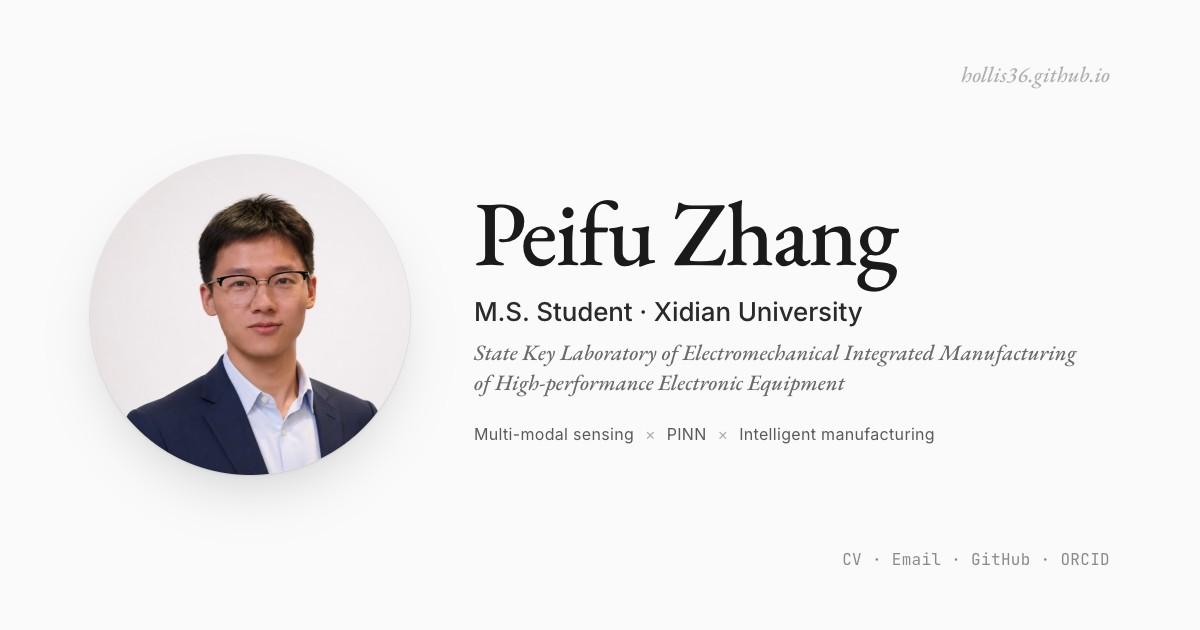
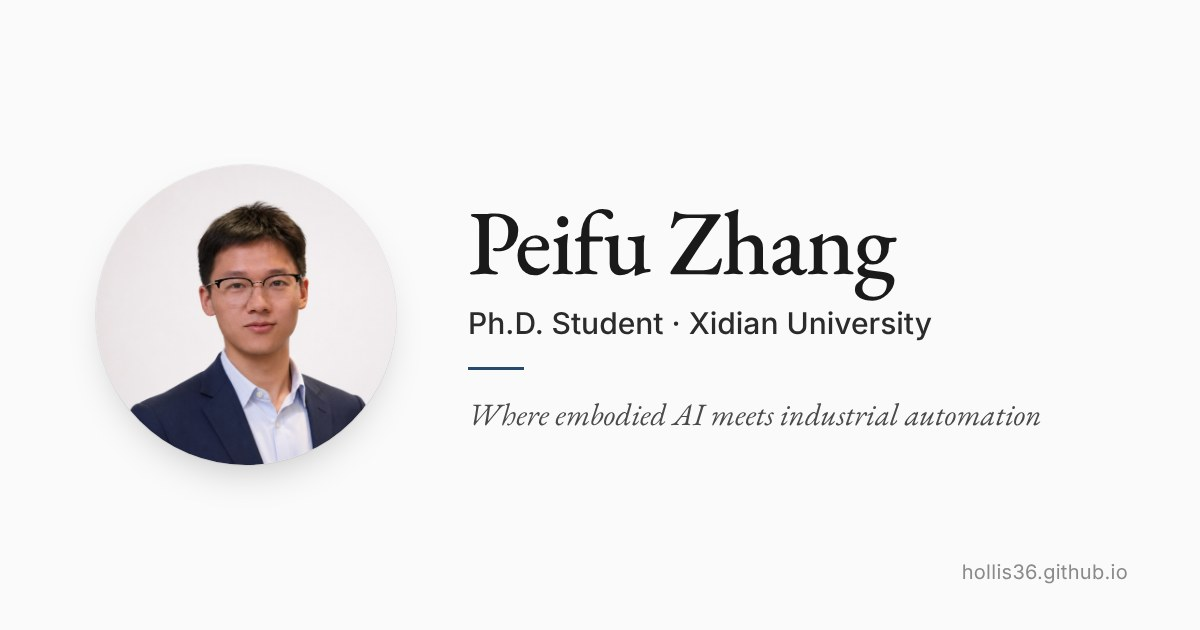
build: publish identity line, shorter bio and new preview image
Build output of academic-site identity-og.

Claude-Session: https://claude.ai/code/session_016Nzzzg47vC9Hei8kUri5ZV

diff --git a/index.html b/index.html
@@ -1,4 +1,4 @@
-<!DOCTYPE html><html lang="en"> <head><meta charset="UTF-8"><meta name="viewport" content="width=device-width, initial-scale=1.0"><meta name="color-scheme" content="light"><meta name="google-site-verification" content="UYcEzalOo01ZI3kSCW3-O5s_WN0Uq6qv6qF1ZRYlca0"><meta name="description" content="Peifu Zhang works where embodied AI meets industrial automation: verifiable LLM/VLM robot programming, industrial inspection with vision-language models, and robust multimodal perception, built to run offline on factory hardware."><meta name="author" content="Peifu Zhang"><meta name="robots" content="index, follow, max-image-preview:large"><link rel="canonical" href="https://hollis36.github.io/"><link rel="icon" type="image/svg+xml" href="/favicon.svg"><meta property="og:type" content="profile"><meta property="og:site_name" content="Peifu Zhang"><meta property="og:title" content="Peifu Zhang"><meta property="og:description" content="Peifu Zhang works where embodied AI meets industrial automation: verifiable LLM/VLM robot programming, industrial inspection with vision-language models, and robust multimodal perception, built to run offline on factory hardware."><meta property="og:url" content="https://hollis36.github.io/"><meta property="og:image" content="https://hollis36.github.io/og-image.jpg"><meta property="og:image:width" content="1200"><meta property="og:image:height" content="630"><meta property="og:image:type" content="image/jpeg"><meta property="og:image:alt" content="Peifu Zhang — Ph.D. Student in Mechanical Engineering"><meta property="og:locale" content="en_US"><meta property="profile:first_name" content="Peifu"><meta property="profile:last_name" content="Zhang"><meta name="twitter:card" content="summary_large_image"><meta name="twitter:title" content="Peifu Zhang"><meta name="twitter:description" content="Peifu Zhang works where embodied AI meets industrial automation: verifiable LLM/VLM robot programming, industrial inspection with vision-language models, and robust multimodal perception, built to run offline on factory hardware."><meta name="twitter:image" content="https://hollis36.github.io/og-image.jpg"><meta name="twitter:image:alt" content="Peifu Zhang — Ph.D. Student in Mechanical Engineering"><title>Peifu Zhang</title><script type="application/ld+json">{"@context":"https://schema.org","@type":"Person","name":"Peifu Zhang","jobTitle":"Ph.D. Student in Mechanical Engineering","affiliation":{"@type":"EducationalOrganization","name":"State Key Laboratory of Electromechanical Integrated Manufacturing of High-performance Electronic Equipment, School of Electro-Mechanical Engineering, Xidian University"},"url":"https://hollis36.github.io/","image":"https://hollis36.github.io/og-image.jpg","description":"Peifu Zhang works where embodied AI meets industrial automation: verifiable LLM/VLM robot programming, industrial inspection with vision-language models, and robust multimodal perception, built to run offline on factory hardware.","knowsAbout":["Robot Learning","Intelligent Manufacturing","Vision-Language Models","Large Language Models for Robot Programming","Industrial Visual Inspection","RGB-Infrared Perception","Multimodal Perception and Fusion","Physics-Informed Machine Learning"],"sameAs":["https://scholar.google.com/citations?user=cqbM0hEAAAAJ&hl=en","https://orcid.org/0009-0007-8422-3955","https://github.com/Hollis36"],"identifier":{"@type":"PropertyValue","propertyID":"https://orcid.org/","value":"0009-0007-8422-3955"},"award":["2026 — Third Prize, AI Innovation Track, 28th China Robot and Artificial Intelligence Competition (Shaanxi)","2026 — Second Prize (Northwest Region), AIGC Innovation Track, China Collegiate Computing Contest","2025 — Graduate Distinguished Scholarship","2025 — Second Prize, \"Huawei Cup\" China Post-Graduate Mathematical Contest in Modeling","2025 — China Western Volunteer Program, one-year volunteer teaching (2024–25), rated Excellent","2024 — Outstanding Student, Xidian University","2024 — Champion, World Robot Contest — Shaanxi Selection","2024 — Outstanding Instructor, World Robot Contest Shaanxi Selection","2023 — 1st Prize (Provincial), \"Challenge Cup\" National College Students Extracurricular Academic Science and Technology Works Competition","2023 — Silver Medal (Provincial, Red Tour Track), China College Students \"Internet+\" Innovation and Entrepreneurship Competition","2022 — Honorable Mention, Interdisciplinary Contest in Modeling (ICM)","2022 — 1st Prize (Provincial), China Undergraduate Mathematical Contest in Modeling","2022 — National Student Innovation and Entrepreneurship Training Project (funded)","2022 — MOE–Huawei \"Intelligent Base\" Future Star"]}</script><script defer data-goatcounter="https://peifuzhang.goatcounter.com/count" src="//gc.zgo.at/count.js"></script><link rel="stylesheet" href="/_astro/index.Wh-oZ_GO.css"></head> <body> <main class="container">  <section class="hero"> <div class="hero__text"> <h1 class="hero__name">Peifu Zhang</h1> <div class="hero__bio"> <p>Foundation models are moving from screens into the physical world. Vision-language-action models, LLM agents and multimodal perception promise robots that are told what to do instead of being programmed line by line, yet factories still need outputs that are correct, verifiable and able to run on the hardware they already have.</p><p>My research sits where embodied AI meets industrial automation: language models that write robot programs and check them in simulation before execution, vision-language models for industrial inspection whose post-training gains are measured rather than assumed, and RGB–thermal perception for small, hard-to-see targets. I build these as working systems that run offline on factory PCs, CPU-only laptops and robot controllers.</p> </div> <p class="hero__links"> <a class="js-email" href="#" data-e="bmMudWRlLm5haWRpeC51dHNAdWZpZXA=">Email</a> <span class="site-nav__sep">·</span><a href="https://scholar.google.com/citations?user=cqbM0hEAAAAJ&hl=en" target="_blank" rel="noopener noreferrer">Google Scholar</a> <span class="site-nav__sep">·</span><a href="https://github.com/Hollis36" target="_blank" rel="noopener noreferrer">GitHub</a> <span class="site-nav__sep">·</span><a href="https://orcid.org/0009-0007-8422-3955" target="_blank" rel="noopener noreferrer">ORCID</a> </p> </div> <div class="hero__avatar"> <img src="/show-photo.jpg" alt="Peifu Zhang" width="200" height="200" loading="eager"> </div> </section> <hr> <section class="section"> <h2 class="section-title" id="research"> <span class="section-title__bracket">[</span>Research<span class="section-title__bracket">]</span> </h2> <ol class="research-list"> <li class="research-theme" id="theme-robot-programming"> <h3 class="research-theme__title"> <span class="research-theme__num">01</span>Foundation Models for Robot Programming &amp; Inspection</h3> <p class="research-theme__desc">Turning language and vision-language models into robot programs and inspection decisions that can be verified: in simulation before a robot moves, and on held-out data before a model is deployed.</p> </li><li class="research-theme" id="theme-perception"> <h3 class="research-theme__title"> <span class="research-theme__num">02</span>Robust Multimodal Perception</h3> <p class="research-theme__desc">Perceiving small, low-contrast targets by fusing RGB and thermal imagery, and by distilling what large vision-language models know into detectors fast enough for real time.</p> </li><li class="research-theme" id="theme-manufacturing"> <h3 class="research-theme__title"> <span class="research-theme__num">03</span>Physics-Informed AI for Manufacturing</h3> <p class="research-theme__desc">Combining multi-sensor data with physical models to monitor additive manufacturing and other high-value production processes online.</p> </li> </ol> </section> <hr> <section class="section"> <h2 class="section-title" id="publications"> <span class="section-title__bracket">[</span>Publications<span class="section-title__bracket">]</span> </h2> <ul class="pub-list"> <li class="pub-item" id="pub-nanorobot-snb-2026"> <h3 class="pub-item__title"> <a href="https://doi.org/10.1016/j.snb.2026.139673" target="_blank" rel="noopener noreferrer">Deep learning enabled magnetic/rare earth hybrid nanorobots for multi-modal bioimaging and temperature sensing with surgical boundary determination</a> </h3> <p class="pub-item__authors"> <span class>Wenjing Li</span><span class="pub-item__author-mark">*</span><span>, </span><span class>Bi Lin</span><span class="pub-item__author-mark">*</span><span>, </span><span class>Bixiao Li</span><span class="pub-item__author-mark">*</span><span>, </span><span class="pub-item__author--self">Peifu Zhang</span><span class="pub-item__author-mark">*</span><span>, </span><span class>Ziyue Ju</span><span>, </span><span class>Anees A. Ansari</span><span>, </span><span class>Ruichan Lv</span><span class="pub-item__author-mark">†</span> </p> <p class="pub-item__venue"> Sensors and Actuators B: Chemical, 2026 <span class="pub-item__venue-note">Co-first author</span> </p> <div class="pub-item__links"> <button type="button" class="pub-item__toggle" data-toggle-target="abs-nanorobot-snb-2026" aria-expanded="false">[Abstract]</button>  <button type="button" class="pub-item__toggle" data-toggle-target="bib-nanorobot-snb-2026" aria-expanded="false">[BibTeX]</button> </div> <div id="abs-nanorobot-snb-2026" class="pub-item__abstract" hidden>Nanorobots, with miniature size, wireless operation, and flexible mobility, can access narrow spaces and are widely used in biomedicine. High-precision transport is vital for targeted drug delivery, disease diagnosis, and treatment, yet current research has limitations like insufficient single-imaging diagnosis and active tumor targeting. In this research, a magnetic nanorobot platform is proposed, combining magnetic ferric oxide substrate with rare earth nanoparticles (RENPs). This magnetic nanorobot features multi-modal imaging including NIR II fluorescence, MRI, and PA with high moving target effect (&lt;5 s). After conjugated with antibodies against MET and VEGF, this platform enables multi-molecular targeting. Under an external magnetic field, the dual-targeting (active and physical magnetic) allows in vitro and in vivo precise tumor cell targeting with tumor imaging. Moreover, its NIR II luminescence enables enhanced real-time temperature detection (24.6–41.5°C). Especially, the deep learning allows NIR II imaging to simultaneously perform increased fluorescence imaging for surgical boundary definition and temperature sensing display (R² = 0.973, RMSE = 1.50°C). With high penetration and spatial resolution, this proposed magnetic/rare earth hybrid nanorobots holds great promise for precision biomedicine.</div> <div id="bib-nanorobot-snb-2026" class="pub-item__bibtex-wrap" hidden> <button type="button" class="pub-item__copy" data-copy-source="bib-code-nanorobot-snb-2026" data-copy-label="Copy" data-copied-label="Copied" aria-label="Copy BibTeX to clipboard">Copy</button> <pre id="bib-code-nanorobot-snb-2026" class="pub-item__bibtex"><code>@article{li2026deep,
+<!DOCTYPE html><html lang="en"> <head><meta charset="UTF-8"><meta name="viewport" content="width=device-width, initial-scale=1.0"><meta name="color-scheme" content="light"><meta name="google-site-verification" content="UYcEzalOo01ZI3kSCW3-O5s_WN0Uq6qv6qF1ZRYlca0"><meta name="description" content="Peifu Zhang works where embodied AI meets industrial automation: verifiable LLM/VLM robot programming, industrial inspection with vision-language models, and robust multimodal perception, built to run offline on factory hardware."><meta name="author" content="Peifu Zhang"><meta name="robots" content="index, follow, max-image-preview:large"><link rel="canonical" href="https://hollis36.github.io/"><link rel="icon" type="image/svg+xml" href="/favicon.svg"><meta property="og:type" content="profile"><meta property="og:site_name" content="Peifu Zhang"><meta property="og:title" content="Peifu Zhang"><meta property="og:description" content="Peifu Zhang works where embodied AI meets industrial automation: verifiable LLM/VLM robot programming, industrial inspection with vision-language models, and robust multimodal perception, built to run offline on factory hardware."><meta property="og:url" content="https://hollis36.github.io/"><meta property="og:image" content="https://hollis36.github.io/og-image.jpg"><meta property="og:image:width" content="1200"><meta property="og:image:height" content="630"><meta property="og:image:type" content="image/jpeg"><meta property="og:image:alt" content="Peifu Zhang — Ph.D. Student · Xidian University"><meta property="og:locale" content="en_US"><meta property="profile:first_name" content="Peifu"><meta property="profile:last_name" content="Zhang"><meta name="twitter:card" content="summary_large_image"><meta name="twitter:title" content="Peifu Zhang"><meta name="twitter:description" content="Peifu Zhang works where embodied AI meets industrial automation: verifiable LLM/VLM robot programming, industrial inspection with vision-language models, and robust multimodal perception, built to run offline on factory hardware."><meta name="twitter:image" content="https://hollis36.github.io/og-image.jpg"><meta name="twitter:image:alt" content="Peifu Zhang — Ph.D. Student · Xidian University"><title>Peifu Zhang</title><script type="application/ld+json">{"@context":"https://schema.org","@type":"Person","name":"Peifu Zhang","jobTitle":"Ph.D. Student in Mechanical Engineering","affiliation":{"@type":"EducationalOrganization","name":"State Key Laboratory of Electromechanical Integrated Manufacturing of High-performance Electronic Equipment, School of Electro-Mechanical Engineering, Xidian University"},"url":"https://hollis36.github.io/","image":"https://hollis36.github.io/og-image.jpg","description":"Peifu Zhang works where embodied AI meets industrial automation: verifiable LLM/VLM robot programming, industrial inspection with vision-language models, and robust multimodal perception, built to run offline on factory hardware.","knowsAbout":["Robot Learning","Intelligent Manufacturing","Vision-Language Models","Large Language Models for Robot Programming","Industrial Visual Inspection","RGB-Infrared Perception","Multimodal Perception and Fusion","Physics-Informed Machine Learning"],"sameAs":["https://scholar.google.com/citations?user=cqbM0hEAAAAJ&hl=en","https://orcid.org/0009-0007-8422-3955","https://github.com/Hollis36"],"identifier":{"@type":"PropertyValue","propertyID":"https://orcid.org/","value":"0009-0007-8422-3955"},"award":["2026 — Third Prize, AI Innovation Track, 28th China Robot and Artificial Intelligence Competition (Shaanxi)","2026 — Second Prize (Northwest Region), AIGC Innovation Track, China Collegiate Computing Contest","2025 — Graduate Distinguished Scholarship","2025 — Second Prize, \"Huawei Cup\" China Post-Graduate Mathematical Contest in Modeling","2025 — China Western Volunteer Program, one-year volunteer teaching (2024–25), rated Excellent","2024 — Outstanding Student, Xidian University","2024 — Champion, World Robot Contest — Shaanxi Selection","2024 — Outstanding Instructor, World Robot Contest Shaanxi Selection","2023 — 1st Prize (Provincial), \"Challenge Cup\" National College Students Extracurricular Academic Science and Technology Works Competition","2023 — Silver Medal (Provincial, Red Tour Track), China College Students \"Internet+\" Innovation and Entrepreneurship Competition","2022 — Honorable Mention, Interdisciplinary Contest in Modeling (ICM)","2022 — 1st Prize (Provincial), China Undergraduate Mathematical Contest in Modeling","2022 — National Student Innovation and Entrepreneurship Training Project (funded)","2022 — MOE–Huawei \"Intelligent Base\" Future Star"]}</script><script defer data-goatcounter="https://peifuzhang.goatcounter.com/count" src="//gc.zgo.at/count.js"></script><link rel="stylesheet" href="/_astro/index.Wh-oZ_GO.css"></head> <body> <main class="container">  <section class="hero"> <div class="hero__text"> <h1 class="hero__name">Peifu Zhang</h1> <p class="hero__position">Ph.D. Student · Xidian University</p> <div class="hero__bio"> <p>Foundation models are moving from screens into the physical world, yet factories still need outputs that are correct, verifiable and able to run on the hardware they already have. My research sits where embodied AI meets industrial automation, and I build my methods as working systems that run offline on factory PCs, CPU-only laptops and robot controllers.</p> </div> <p class="hero__links"> <a class="js-email" href="#" data-e="bmMudWRlLm5haWRpeC51dHNAdWZpZXA=">Email</a> <span class="site-nav__sep">·</span><a href="https://scholar.google.com/citations?user=cqbM0hEAAAAJ&hl=en" target="_blank" rel="noopener noreferrer">Google Scholar</a> <span class="site-nav__sep">·</span><a href="https://github.com/Hollis36" target="_blank" rel="noopener noreferrer">GitHub</a> <span class="site-nav__sep">·</span><a href="https://orcid.org/0009-0007-8422-3955" target="_blank" rel="noopener noreferrer">ORCID</a> </p> </div> <div class="hero__avatar"> <img src="/show-photo.jpg" alt="Peifu Zhang" width="200" height="200" loading="eager"> </div> </section> <hr> <section class="section"> <h2 class="section-title" id="research"> <span class="section-title__bracket">[</span>Research<span class="section-title__bracket">]</span> </h2> <ol class="research-list"> <li class="research-theme" id="theme-robot-programming"> <h3 class="research-theme__title"> <span class="research-theme__num">01</span>Foundation Models for Robot Programming &amp; Inspection</h3> <p class="research-theme__desc">Turning language and vision-language models into robot programs and inspection decisions that can be verified: in simulation before a robot moves, and on held-out data before a model is deployed.</p> </li><li class="research-theme" id="theme-perception"> <h3 class="research-theme__title"> <span class="research-theme__num">02</span>Robust Multimodal Perception</h3> <p class="research-theme__desc">Perceiving small, low-contrast targets by fusing RGB and thermal imagery, and by distilling what large vision-language models know into detectors fast enough for real time.</p> </li><li class="research-theme" id="theme-manufacturing"> <h3 class="research-theme__title"> <span class="research-theme__num">03</span>Physics-Informed AI for Manufacturing</h3> <p class="research-theme__desc">Combining multi-sensor data with physical models to monitor additive manufacturing and other high-value production processes online.</p> </li> </ol> </section> <hr> <section class="section"> <h2 class="section-title" id="publications"> <span class="section-title__bracket">[</span>Publications<span class="section-title__bracket">]</span> </h2> <ul class="pub-list"> <li class="pub-item" id="pub-nanorobot-snb-2026"> <h3 class="pub-item__title"> <a href="https://doi.org/10.1016/j.snb.2026.139673" target="_blank" rel="noopener noreferrer">Deep learning enabled magnetic/rare earth hybrid nanorobots for multi-modal bioimaging and temperature sensing with surgical boundary determination</a> </h3> <p class="pub-item__authors"> <span class>Wenjing Li</span><span class="pub-item__author-mark">*</span><span>, </span><span class>Bi Lin</span><span class="pub-item__author-mark">*</span><span>, </span><span class>Bixiao Li</span><span class="pub-item__author-mark">*</span><span>, </span><span class="pub-item__author--self">Peifu Zhang</span><span class="pub-item__author-mark">*</span><span>, </span><span class>Ziyue Ju</span><span>, </span><span class>Anees A. Ansari</span><span>, </span><span class>Ruichan Lv</span><span class="pub-item__author-mark">†</span> </p> <p class="pub-item__venue"> Sensors and Actuators B: Chemical, 2026 <span class="pub-item__venue-note">Co-first author</span> </p> <div class="pub-item__links"> <button type="button" class="pub-item__toggle" data-toggle-target="abs-nanorobot-snb-2026" aria-expanded="false">[Abstract]</button>  <button type="button" class="pub-item__toggle" data-toggle-target="bib-nanorobot-snb-2026" aria-expanded="false">[BibTeX]</button> </div> <div id="abs-nanorobot-snb-2026" class="pub-item__abstract" hidden>Nanorobots, with miniature size, wireless operation, and flexible mobility, can access narrow spaces and are widely used in biomedicine. High-precision transport is vital for targeted drug delivery, disease diagnosis, and treatment, yet current research has limitations like insufficient single-imaging diagnosis and active tumor targeting. In this research, a magnetic nanorobot platform is proposed, combining magnetic ferric oxide substrate with rare earth nanoparticles (RENPs). This magnetic nanorobot features multi-modal imaging including NIR II fluorescence, MRI, and PA with high moving target effect (&lt;5 s). After conjugated with antibodies against MET and VEGF, this platform enables multi-molecular targeting. Under an external magnetic field, the dual-targeting (active and physical magnetic) allows in vitro and in vivo precise tumor cell targeting with tumor imaging. Moreover, its NIR II luminescence enables enhanced real-time temperature detection (24.6–41.5°C). Especially, the deep learning allows NIR II imaging to simultaneously perform increased fluorescence imaging for surgical boundary definition and temperature sensing display (R² = 0.973, RMSE = 1.50°C). With high penetration and spatial resolution, this proposed magnetic/rare earth hybrid nanorobots holds great promise for precision biomedicine.</div> <div id="bib-nanorobot-snb-2026" class="pub-item__bibtex-wrap" hidden> <button type="button" class="pub-item__copy" data-copy-source="bib-code-nanorobot-snb-2026" data-copy-label="Copy" data-copied-label="Copied" aria-label="Copy BibTeX to clipboard">Copy</button> <pre id="bib-code-nanorobot-snb-2026" class="pub-item__bibtex"><code>@article{li2026deep,
   title     = {Deep learning enabled magnetic/rare earth hybrid nanorobots for multi-modal bioimaging and temperature sensing with surgical boundary determination},
   author    = {Li, Wenjing and Lin, Bi and Li, Bixiao and Zhang, Peifu and Ju, Ziyue and Ansari, Anees A. and Lv, Ruichan},
   journal   = {Sensors and Actuators B: Chemical},
